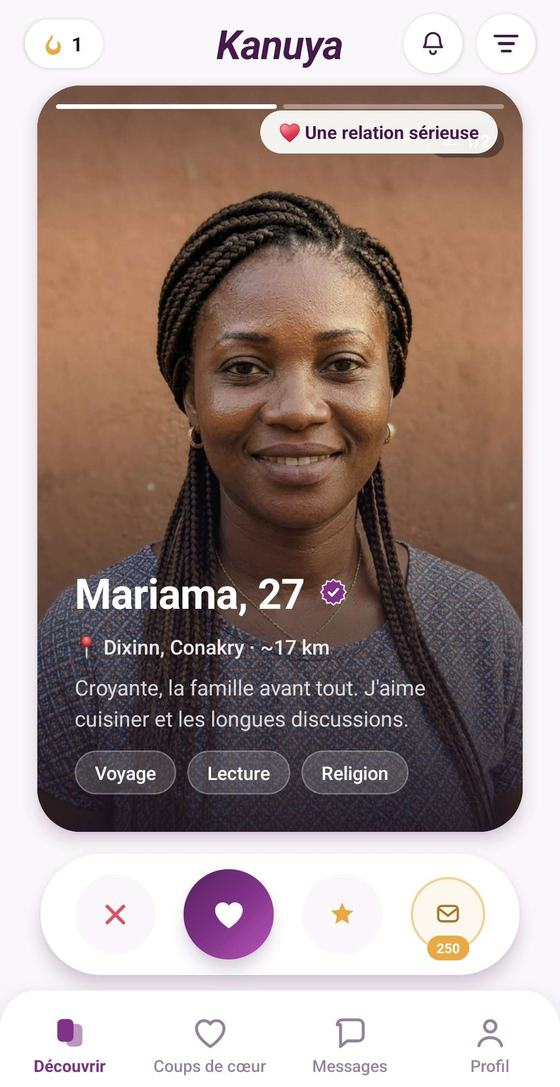
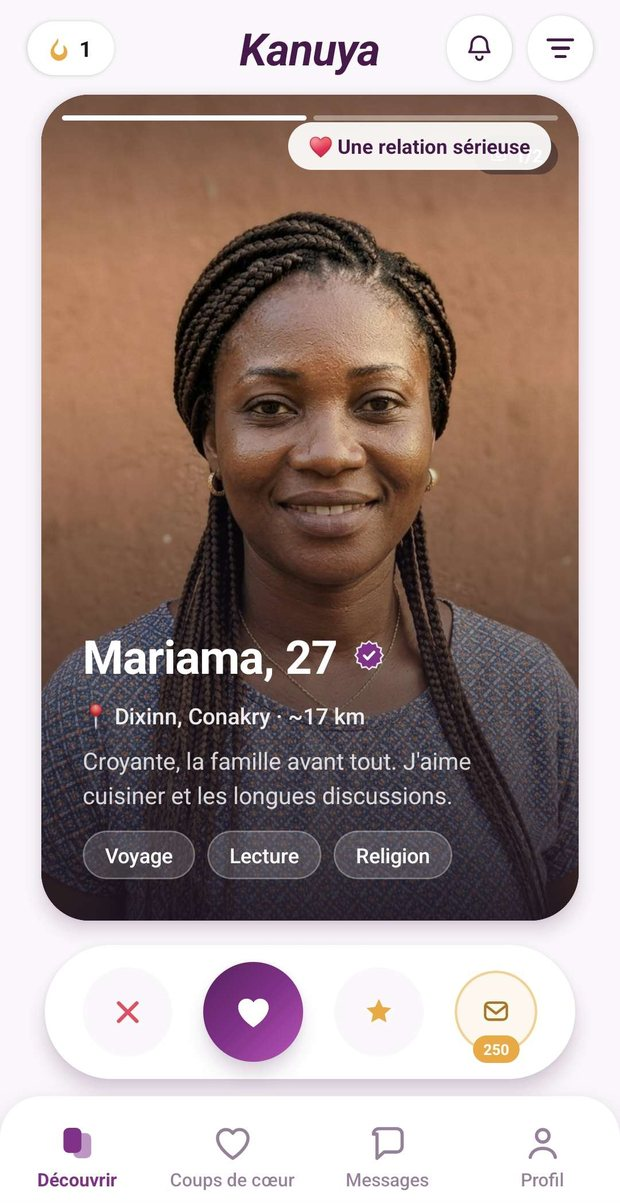
Les captures des étapes, assez grandes pour être lues
À 680 px de gabarit, quatre captures de téléphone tombaient à 152 px de
large : l'interface de l'app y devenait une tache. La grille déborde
maintenant jusqu'à 1040 px et chaque vignette fait 242 px, deux colonnes
sur téléphone. Le titre reste aligné sur les autres sections.

Les fichiers repassent à 620 px de large et en qualité 84 : sur des
captures d'interface, ce sont les artefacts JPEG autour du texte qui se
lisent comme du flou.

Claude-Session: https://claude.ai/code/session_012RbF2AaechNuD2j5Ds8TkV

Changed region(s): [[0.0607, 0.9715, 0.0911, 1.0]]

diff --git a/index.html b/index.html
@@ -75,7 +75,7 @@
 
     <div class="telephone-cadre">
       <div class="telephone">
-        <img class="ecran" src="assets/decouvrir.jpg" width="560" height="1087"
+        <img class="ecran" src="assets/decouvrir.jpg" width="620" height="1203"
              alt="L'écran Découvrir de Kanuya : le profil de Mariama, 27 ans, à Dixinn, Conakry.">
       </div>
     </div>
@@ -167,9 +167,9 @@
   <div class="etroit">
     <h2>Comment ça marche</h2>
     <div class="grille-etapes">
-      <div><img class="capture" src="assets/etape-inscription.jpg" width="460" height="893" alt="L'écran d'accueil de Kanuya : « Des rencontres sérieuses, entre Guinéens qui cherchent la même chose que toi. »"><p><span class="chiffre">1</span>&nbsp; Tu crées ton profil, honnêtement</p></div>
-      <div><img class="capture" src="assets/decouvrir.jpg" width="560" height="1087" alt="L'écran Découvrir : le profil de Mariama, 27 ans, à Dixinn."><p><span class="chiffre">2</span>&nbsp; Tu découvres des gens près de toi</p></div>
-      <div><img class="capture" src="assets/etape-match.jpg" width="460" height="893" alt="L'écran « C'est un match ! » : deux profils réunis, avec le bouton Envoyer un message."><p><span class="chiffre">3</span>&nbsp; Vous vous plaisez, vous discutez</p></div>
+      <div><img class="capture" src="assets/etape-inscription.jpg" width="620" height="1203" alt="L'écran d'accueil de Kanuya : « Des rencontres sérieuses, entre Guinéens qui cherchent la même chose que toi. »"><p><span class="chiffre">1</span>&nbsp; Tu crées ton profil, honnêtement</p></div>
+      <div><img class="capture" src="assets/decouvrir.jpg" width="620" height="1203" alt="L'écran Découvrir : le profil de Mariama, 27 ans, à Dixinn."><p><span class="chiffre">2</span>&nbsp; Tu découvres des gens près de toi</p></div>
+      <div><img class="capture" src="assets/etape-match.jpg" width="620" height="1203" alt="L'écran « C'est un match ! » : deux profils réunis, avec le bouton Envoyer un message."><p><span class="chiffre">3</span>&nbsp; Vous vous plaisez, vous discutez</p></div>
       <div><div class="capture capture-vide"><span>capture : note vocale</span></div><p><span class="chiffre">4</span>&nbsp; Par écrit ou de vive voix, comme tu préfères</p></div>
     </div>
     <p class="apres-grille">La note vocale, c'est pour ceux qui préfèrent parler plutôt qu'écrire. Ici, ça compte.</p>

diff --git a/assets/style.css b/assets/style.css
@@ -187,7 +187,13 @@ body[data-etat="apres"] .avant { display: none; }
 .grille-securite p { margin: 0; }
 .grille-securite p span { color: rgba(251, 248, 251, .8); }
 
-.grille-etapes { display: grid; grid-template-columns: repeat(auto-fit, minmax(150px, 1fr)); gap: 24px; }
+/* la grille déborde du gabarit étroit : à 680 px, quatre captures de
+   téléphone tombent à 152 px et le texte de l'app ne se lit plus.
+   Le titre, lui, reste aligné sur les autres sections. */
+.grille-etapes {
+  display: grid; grid-template-columns: repeat(auto-fit, minmax(160px, 1fr)); gap: 24px;
+  width: min(1040px, calc(100vw - 40px)); margin-left: 50%; transform: translateX(-50%);
+}
 .grille-etapes > div { display: flex; flex-direction: column; gap: 12px; }
 .capture {
   display: block; width: 100%; height: auto;
